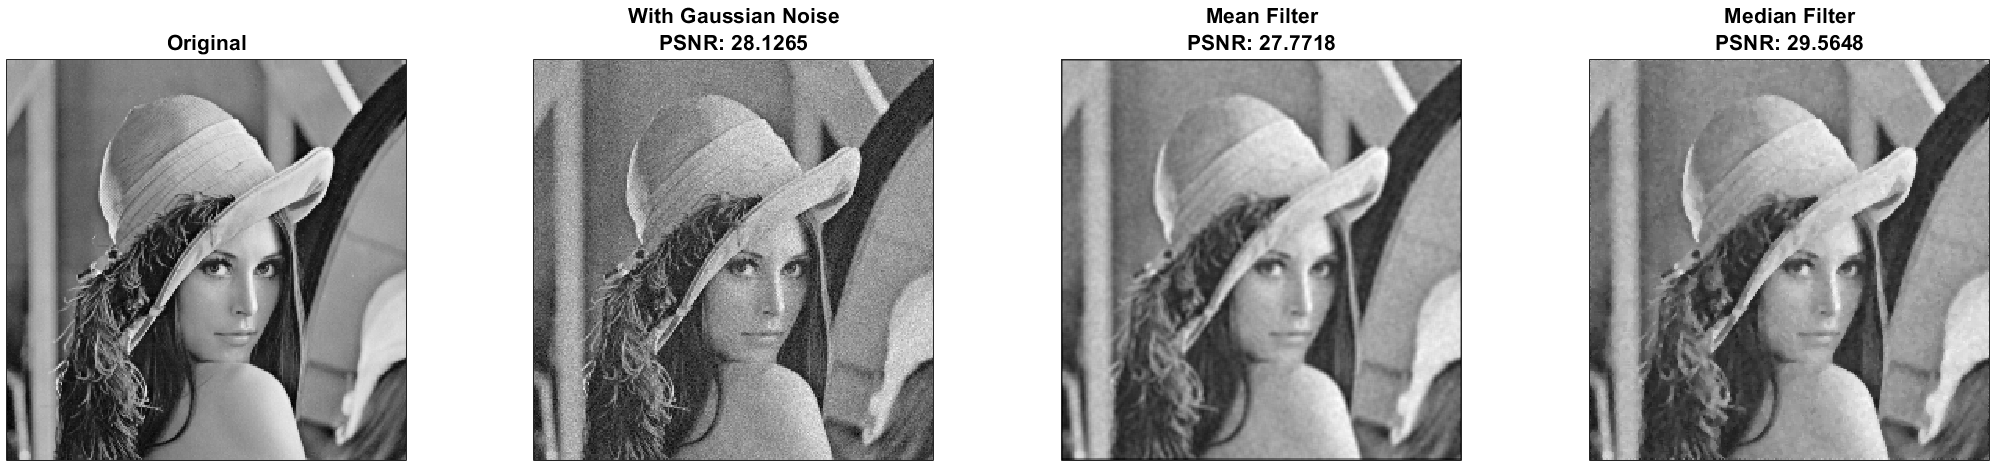
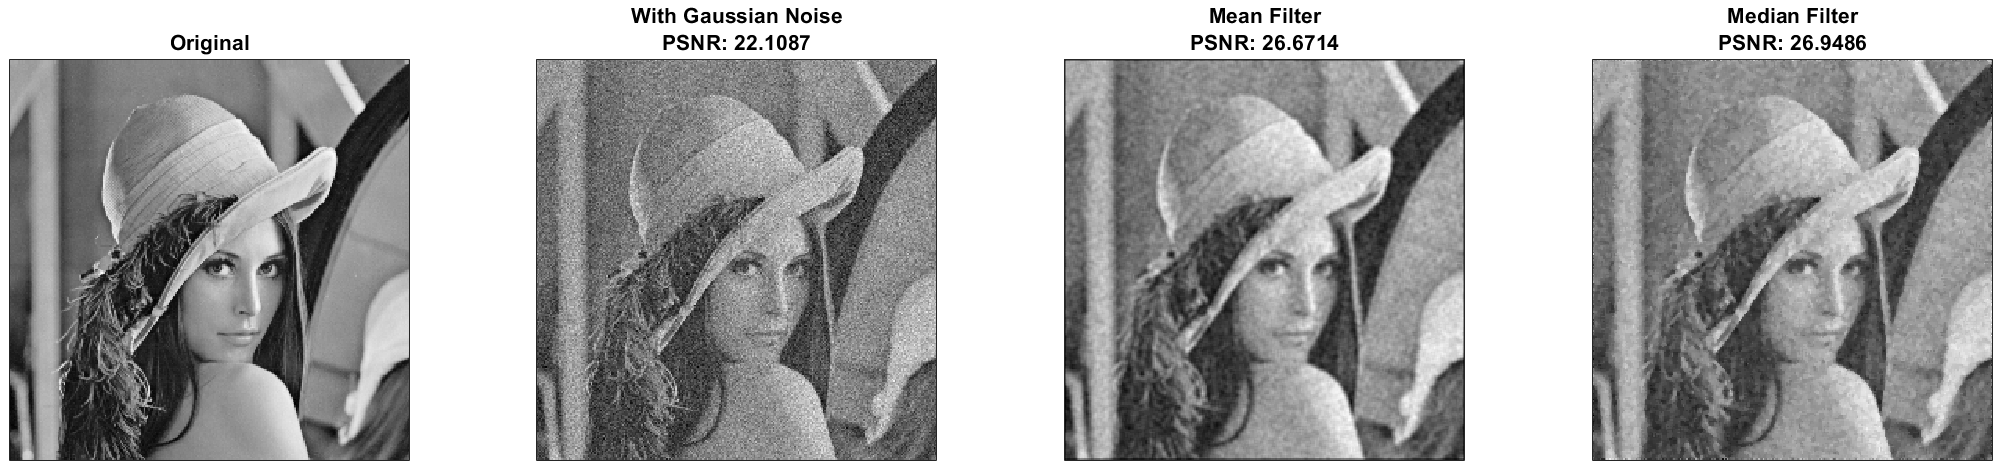
update

diff --git a/HW_3/denoiseScript.m b/HW_3/denoiseScript.m
@@ -73,7 +73,7 @@ clear;
 close all;
 
 imageFileName = "lena.tif";
-s = 10;
+s = 20;
 maskRadius = [1, 1];
 maskSTD = 3;
 
